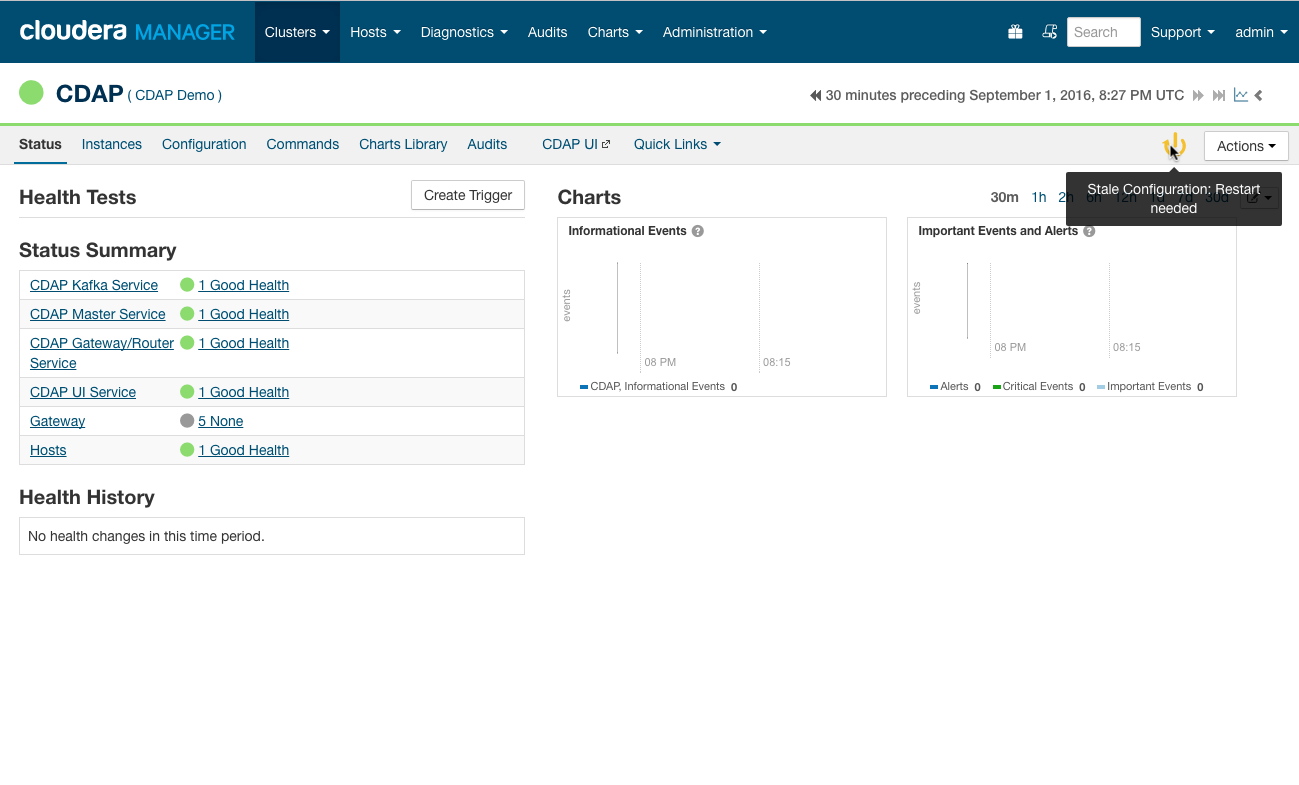
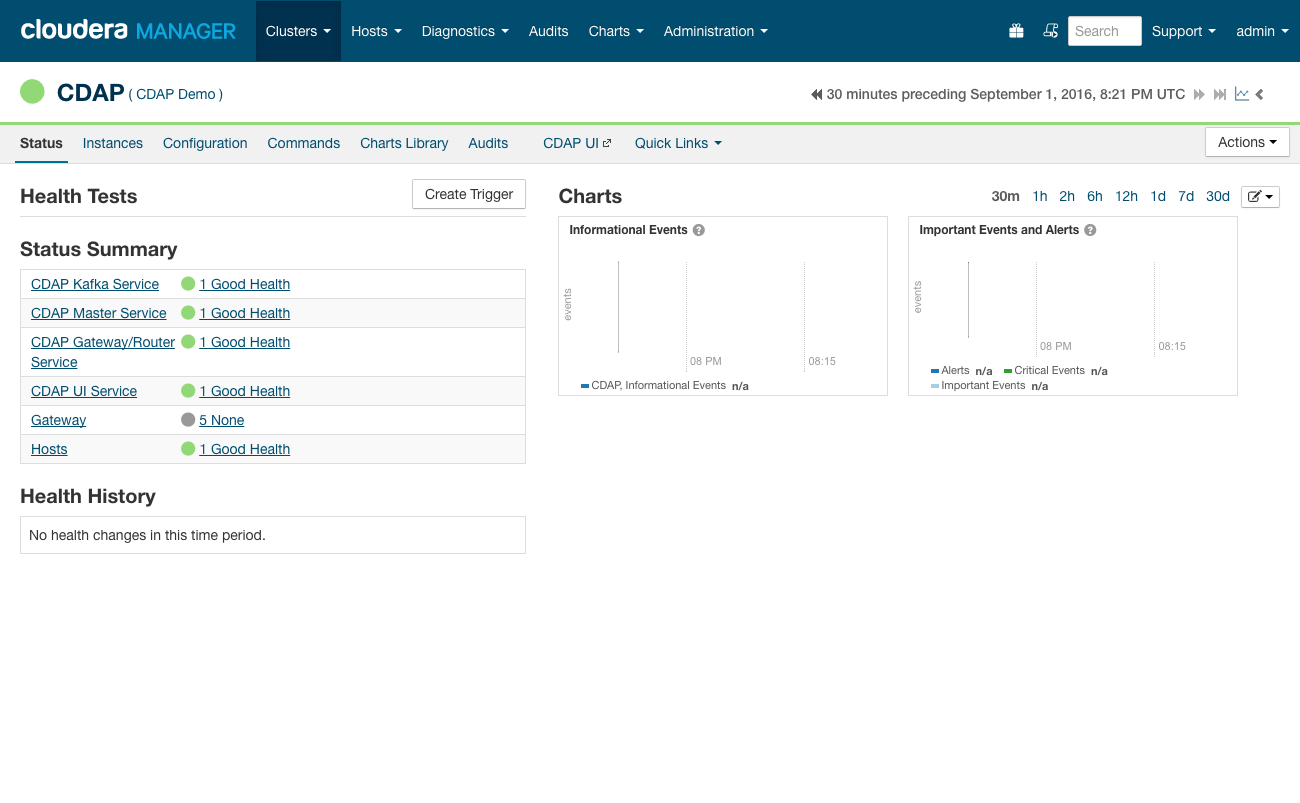
Update, move, and replace images.

diff --git a/cdap-docs/admin-manual/source/installation/cloudera.rst b/cdap-docs/admin-manual/source/installation/cloudera.rst
@@ -486,7 +486,7 @@ Cluster Home Page: Restarting CDAP
 Cluster Home Page: CDAP Services Restarted
 ------------------------------------------
 
-.. figure:: ../_images/cloudera/cloudera-csd-13.png
+.. figure:: ../_images/cloudera/cloudera-csd-09a.png
    :figwidth: 100%
    :width: 800px
    :align: center
